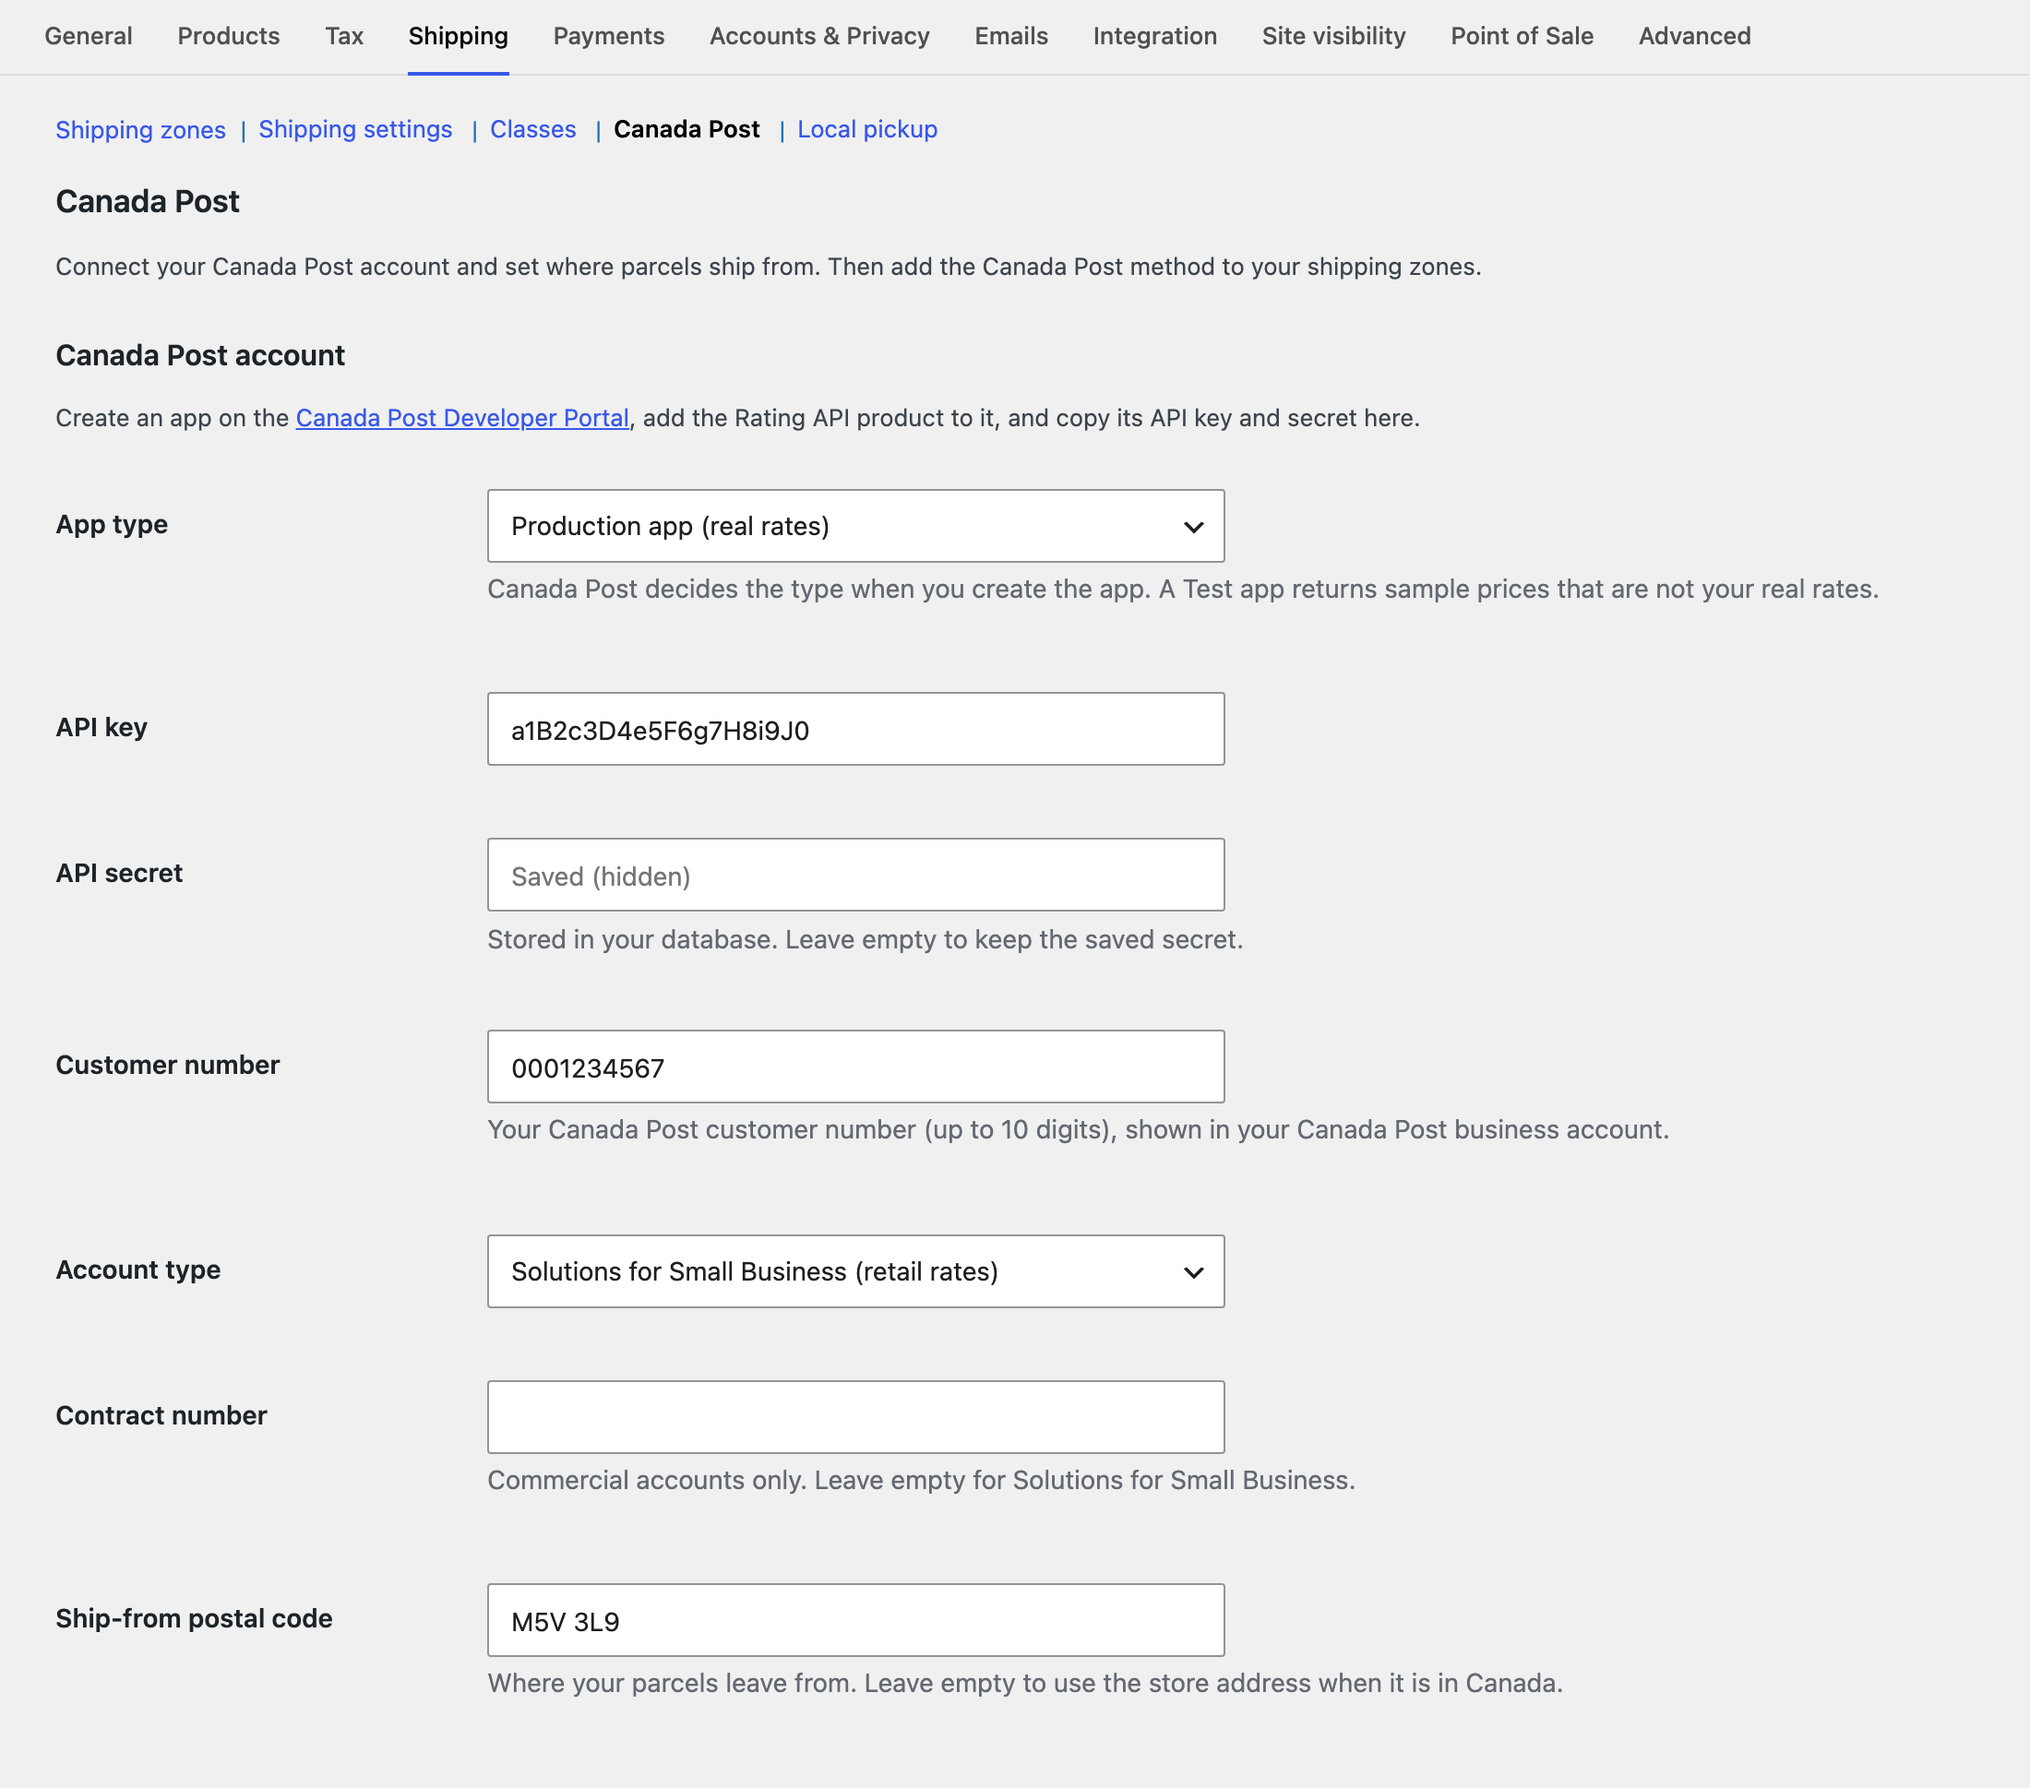
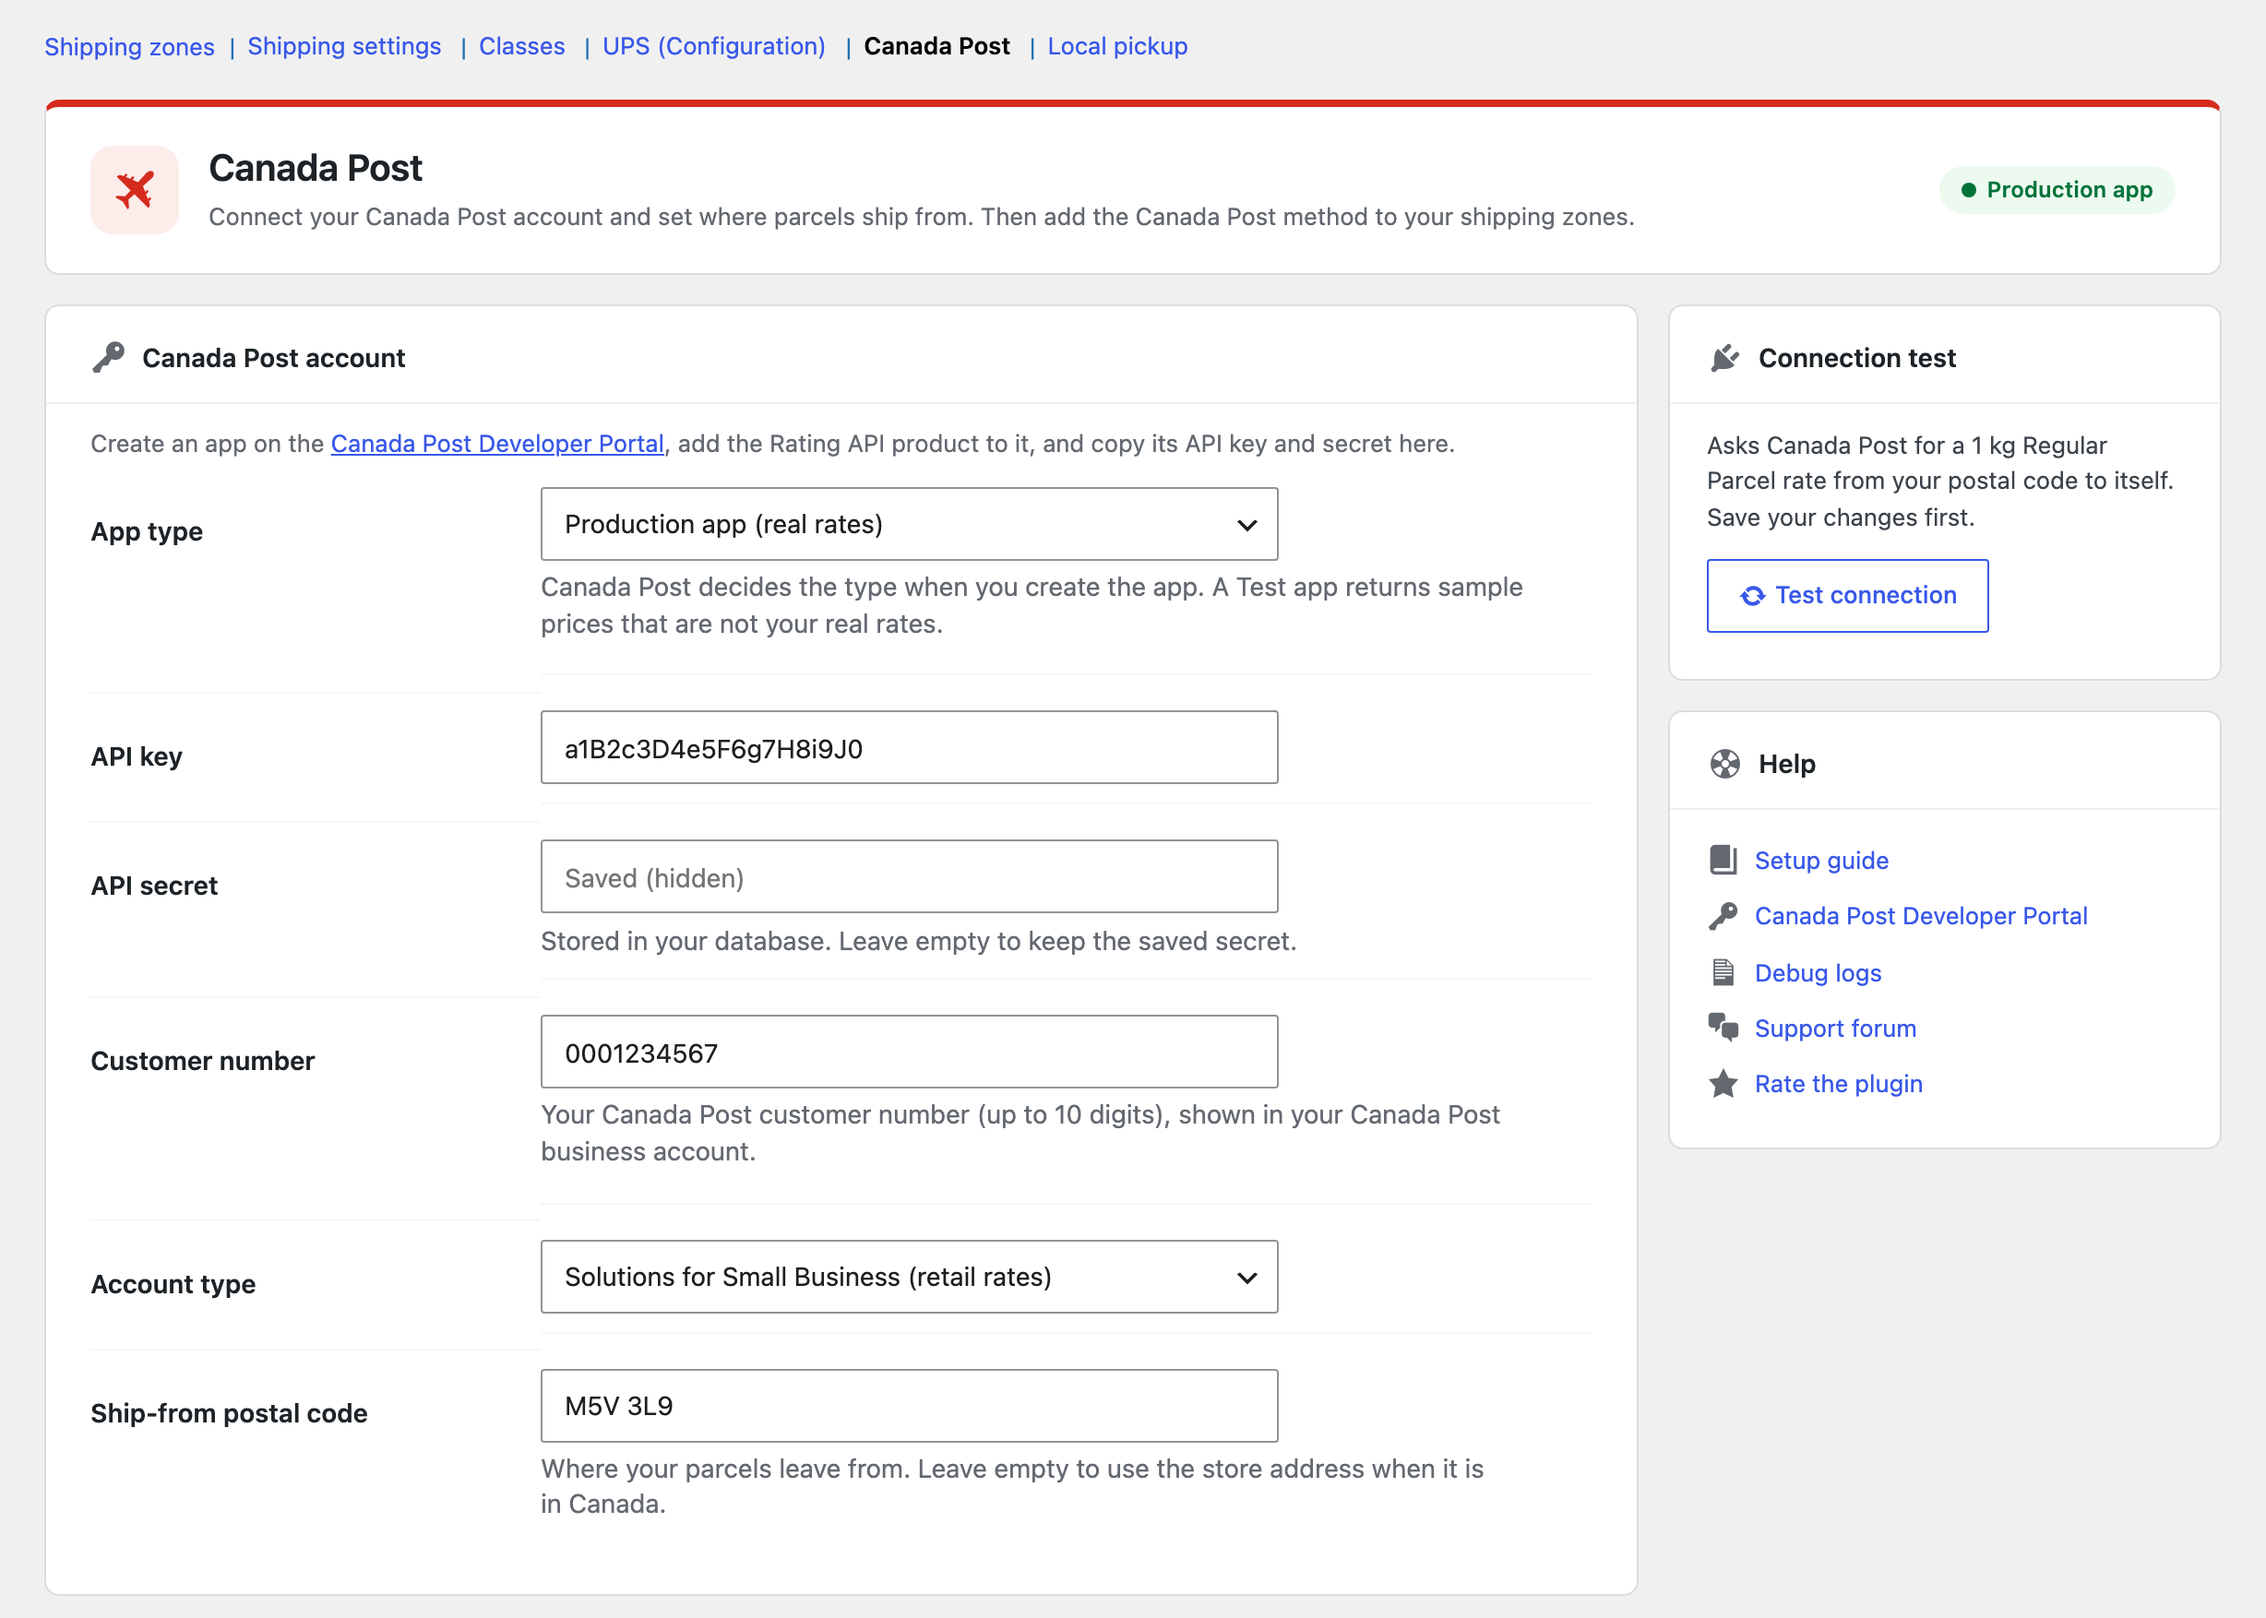
Retake the settings screenshots for the new admin UI
screenshot-1 shows the redesigned settings page and screenshot-2 the
grouped services table. The service name inputs now fill their column:
WooCommerce's nested-table rule set them to width auto, which cut off
longer names like "Xpresspost International".

diff --git a/assets/css/admin.css b/assets/css/admin.css
@@ -406,8 +406,10 @@ table.wpruby-cps-services td {
 	padding-bottom: 6px;
 }
 
-table.wpruby-cps-services td input.regular-text {
+/* Beats WooCommerce's "table.form-table table input[type=text] { width: auto }", which cuts off long names. */
+.woocommerce table.form-table table.wpruby-cps-services td input.regular-text {
 	width: 100%;
+	max-width: none;
 }
 
 .wpruby-cps-services__code {
